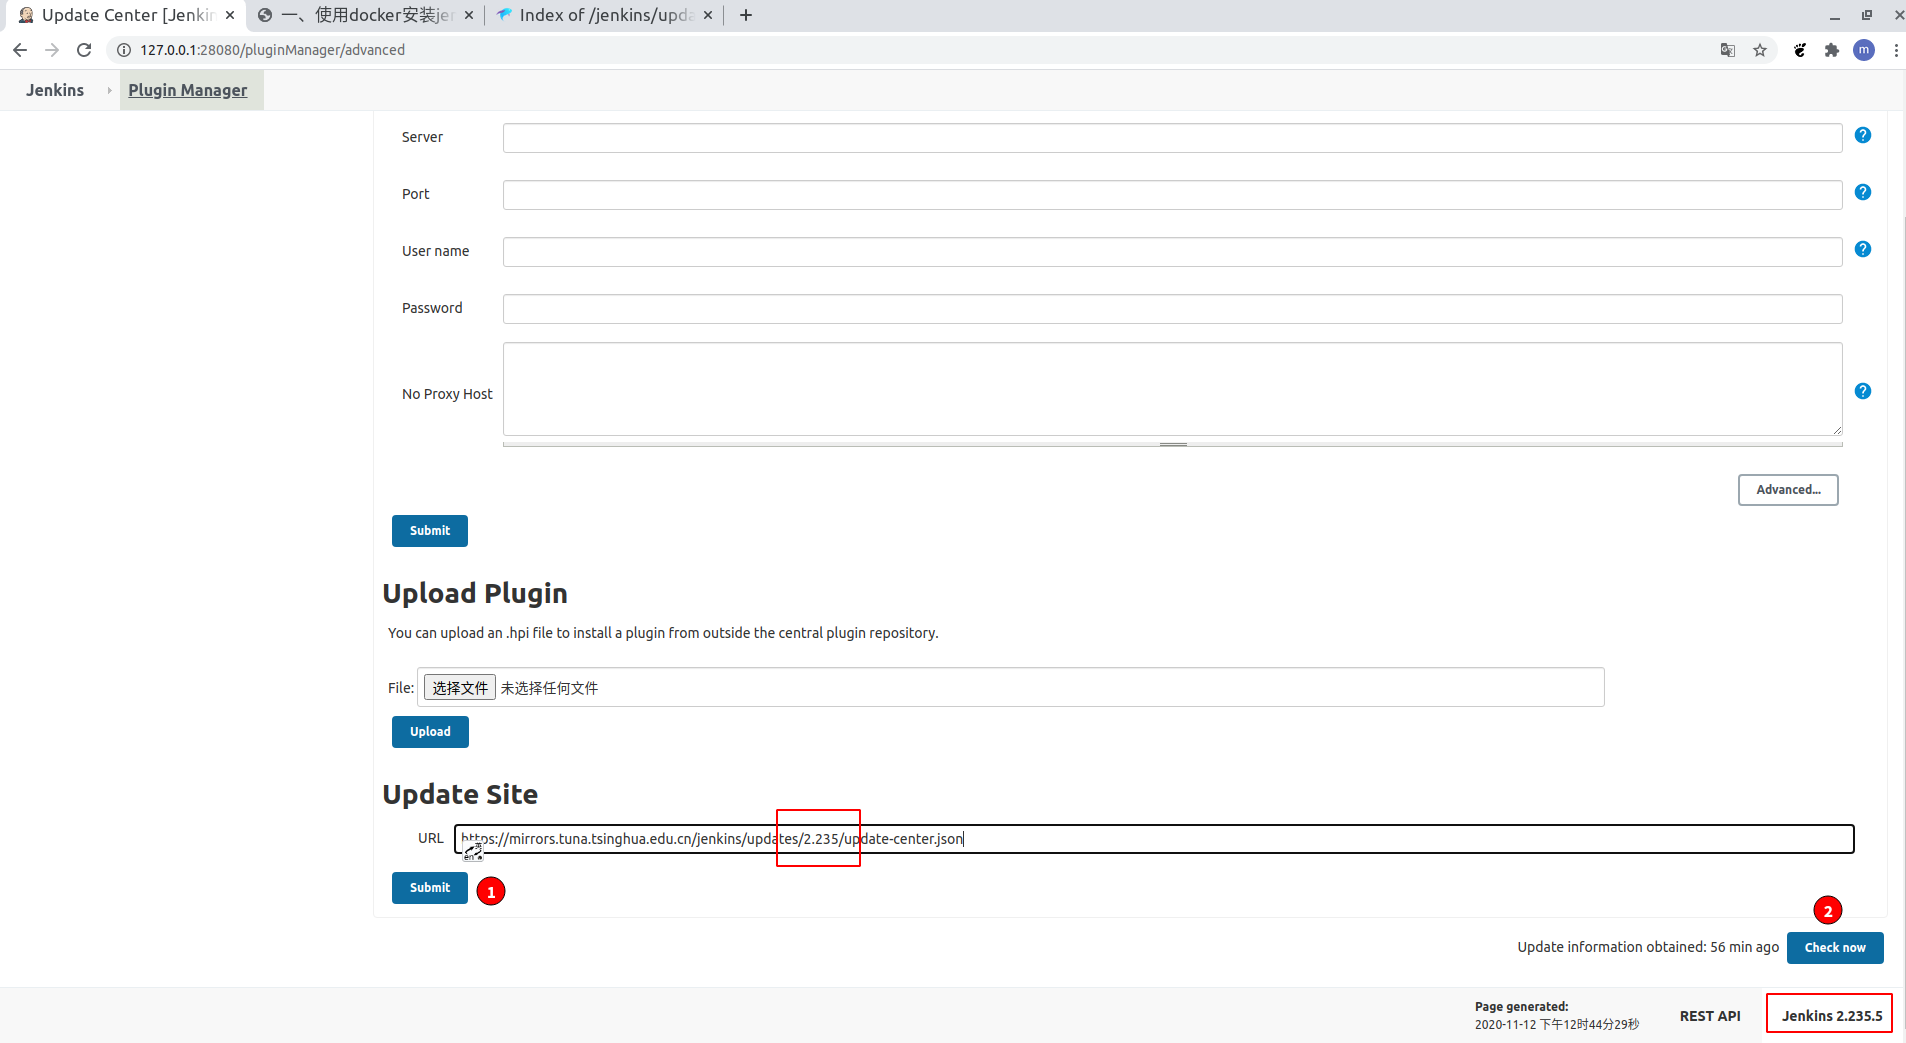
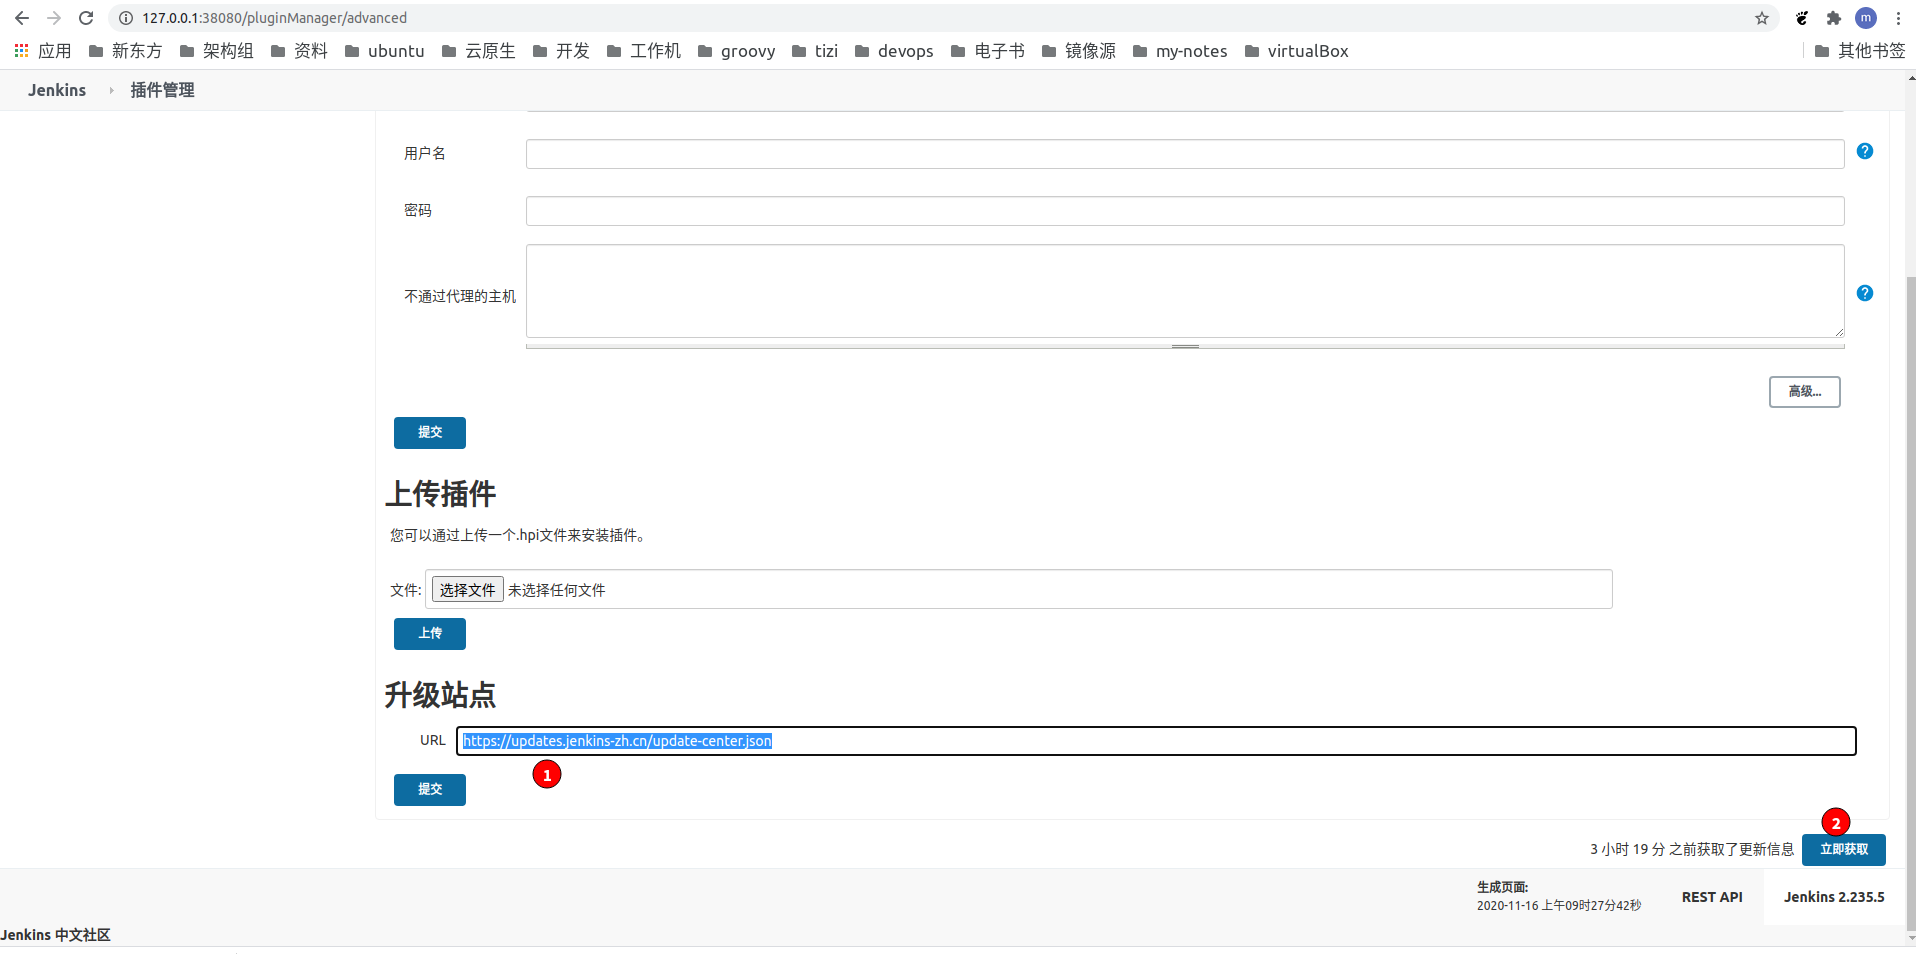
update

diff --git a/docs/jenkins-install/install-in-docker.md b/docs/jenkins-install/install-in-docker.md
@@ -1,10 +1,27 @@
 ## 1. 准备工作
 
-### 1-1. 安装centos 7.8 64bit
+### 1-1. 安装centos 7.8 64bit(最小化安装)
 
-?>最小化安装
+?>基础软件
 
-- 略
+```
+yum install git wget curl net-tools unzip sudo bind  bind-utils htop -y
+```
+
+?>关闭防火墙
+
+```
+systemctl firewalld stop
+systemctl disabled firewalld
+```
+
+?> 关闭selinux
+
+```
+sed -i 's/SELINUX=enforcing/SELINUX=disabled/' /etc/selinux/config
+setenforce 0
+```
+
 
 ### 1-2. 安装docker
 
@@ -196,9 +213,9 @@ docker logs
 
 !> 配置的update.json要和部署的jenkins版本一致
 
-因为docker-compose.yml中镜像为jenkins/jenkins:2.235.5-lts-centos7
+因为docker-compose.yml中镜像为jenkinszh/jenkins-zh:2.235.5
 
-因此采用更新源： https://cdn.jsdelivr.net/gh/jenkins-zh/update-center-mirror@master/tsinghua/stable-2.235/update-center.json
+因此采用更新源： https://updates.jenkins-zh.cn/update-center.json
 
 ![](../_images/2020-11-12_20-43.png)
 
@@ -208,9 +225,53 @@ docker logs
 
 ## 5. 安装插件
 
+?> 插件根据需要安装就好... 具体插件的使用根据使用baidu
+
 ### 5-1. 安装插件列表
 
-- pipeline
+!> 下列是我常用的一些插件 插件并不是越多越好，减少插件依赖可以避免很多插件升级和维护的麻烦
+
+- Pipeline 
+    - *jenkins 2.x 流水线核心插件*
+
+- Maven 
+    - *Maven编译全局工具*
+
+- Gradle  
+    - *Gradle编译全局工具*
+
+- Email Extension  
+    - *邮件扩展*
+
+- Role-based Authorization Strategy  
+    - *用户角色*
+
+- JUnit 
+    - *展示JUnit单元测试报告*
+
+- TestNG Results 
+    - *导出TestNG的测试报告*
+
+- JaCoCo 
+    - *生成测试覆盖率的报告*
+
+- Docker 
+    - *利用Docker容器动态创建Jenkins Slave。如果有了Kubernetes/Openshift集群，就不需要这个插件了。直接使用下面的Kubernetes插*
+
+- Kubernetes 
+    - *这个插件可以将Jenkins Slave Node动态配置为Kubernetes集群上的pod*
+
+- HTTP Request 
+    - *在流水线里调用http请求*
+
+- ThinBackup 
+    - *备份Jenkins自定义备份Jenkins Home目录*
 
 
 ### 5-2. 安装插件操作
+
+!> 有的插件需要重启，重启之前确保jenkins没人使用
+
+![](../_images/2020-11-16_17-41.gif)
+
+
